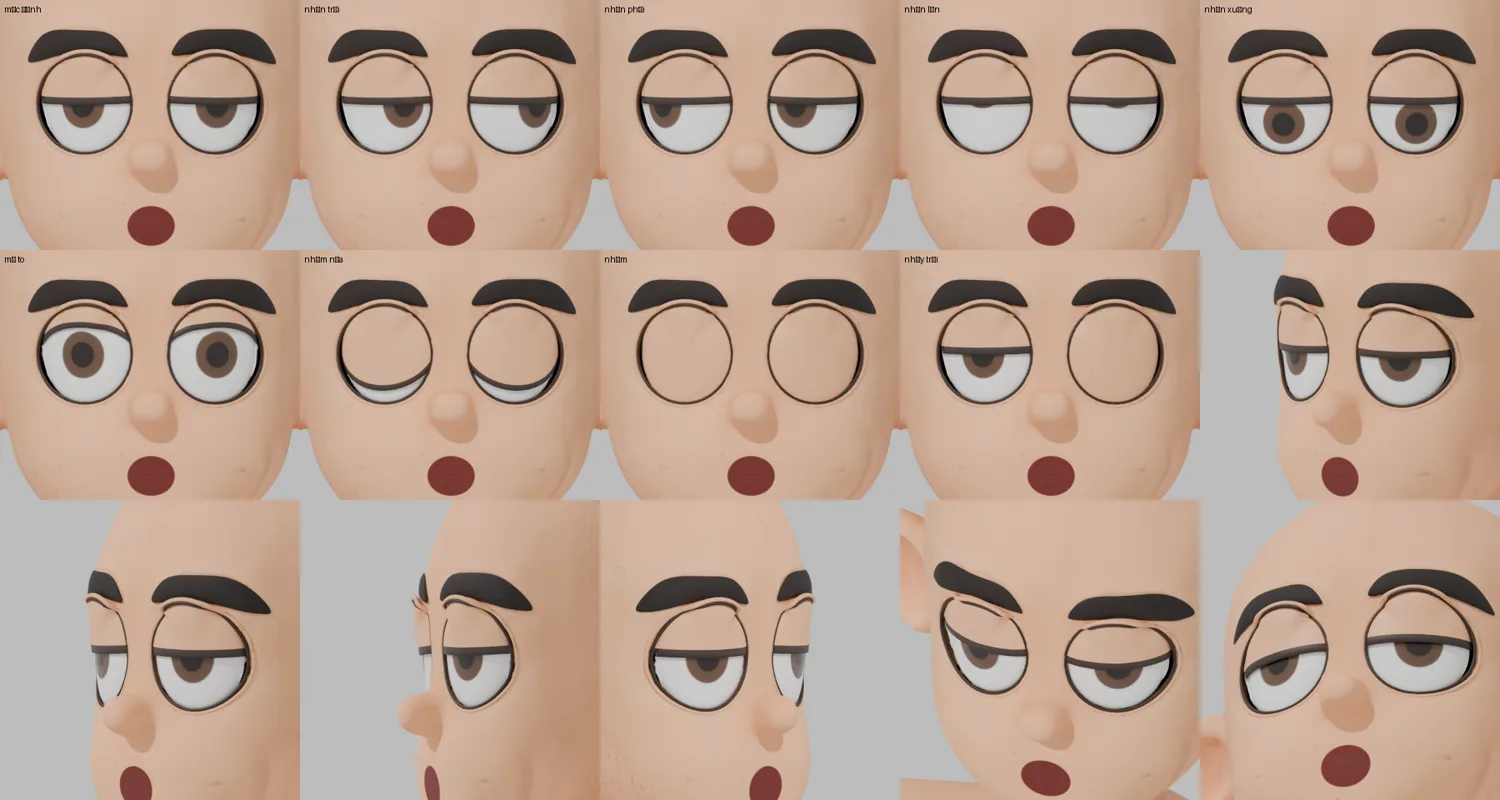
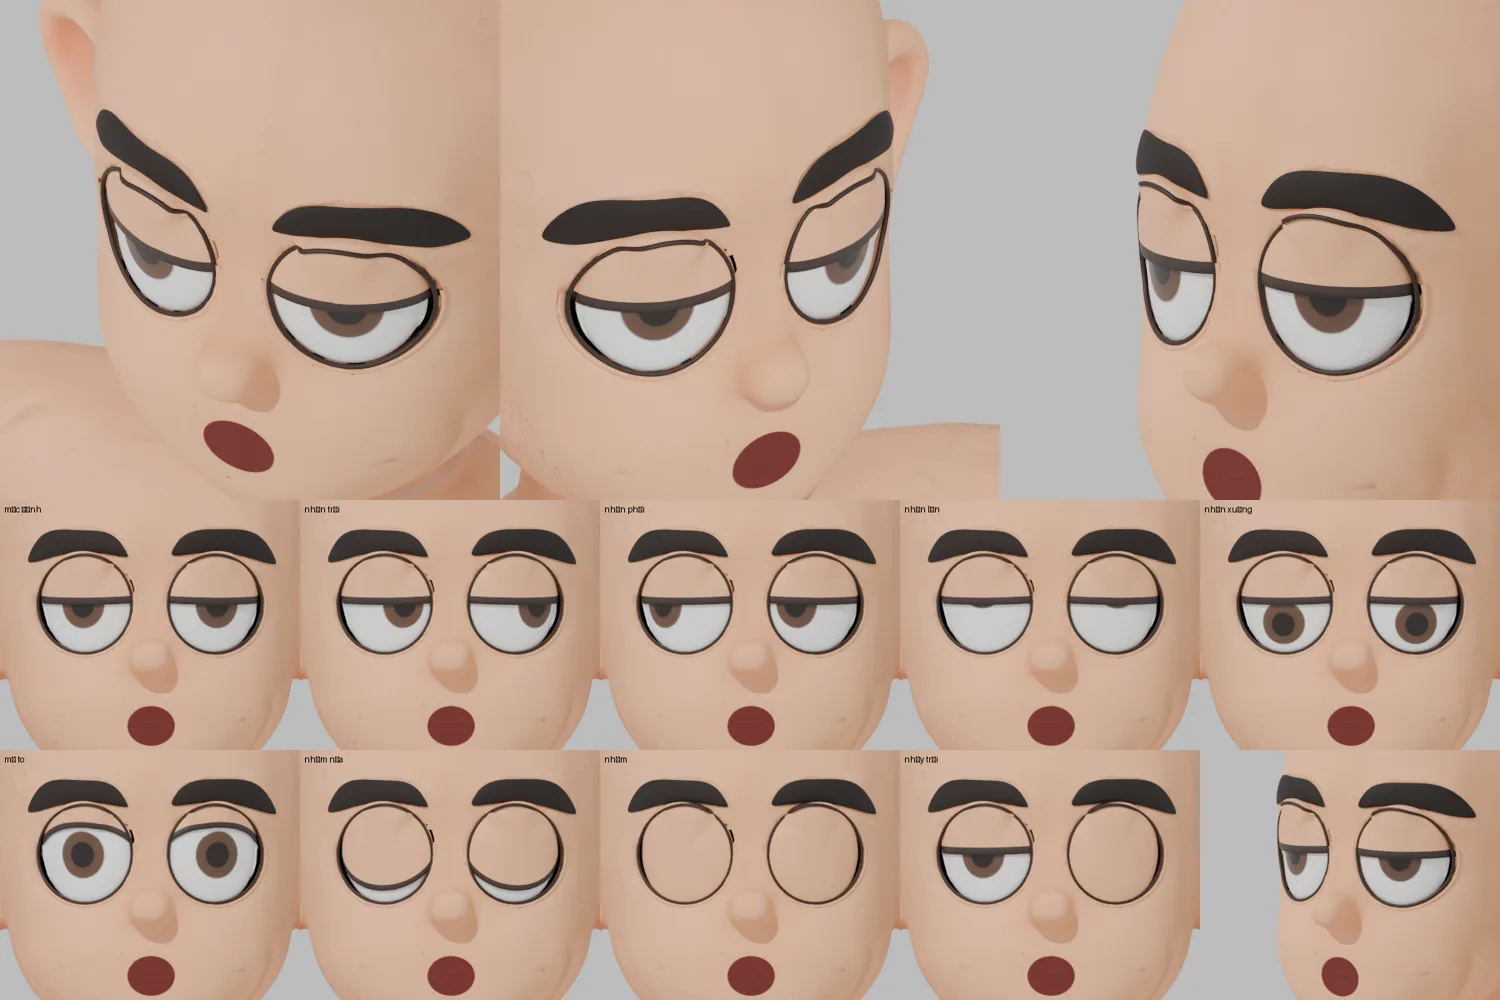
fix(nam-002): san phẳng gờ trên hốc mắt, vành da chỉ nửa dưới
Claude-Session: https://claude.ai/code/session_015xtvRfLqUD2K9LfPtx8x7k

diff --git a/assets/nhan-vat-3d/nam-002/mat_nam002.py b/assets/nhan-vat-3d/nam-002/mat_nam002.py
@@ -52,6 +52,14 @@ def lam_muot_may(body, it=90):
         for lam in (0.5, -0.53):
             acc = np.stack([np.bincount(a, co[b, j], n) + np.bincount(b, co[a, j], n) for j in range(3)], 1) / dg
             co[R] += (lam * w[R])[:, None] * (acc[R] - co[R])
+    # san phẳng gờ phía trên hốc mắt (đỉnh khối mắt cũ, giữa viền và lông mày)
+    for sx in (1, -1):
+        q = np.sqrt(((x - sx * EYE_X) / RX) ** 2 + ((z - EYE_Z) / RZ) ** 2)
+        wt = np.clip((1.55 - q) / 0.2, 0, 1) * np.clip((q - 0.85) / 0.1, 0, 1) * np.clip((z - EYE_Z) / 0.012, 0, 1) * (y < -0.03)
+        Rt = wt > 0
+        for _ in range(150):
+            acc = np.stack([np.bincount(a, co[b, j], n) + np.bincount(b, co[a, j], n) for j in range(3)], 1) / dg
+            co[Rt] += (0.5 * wt[Rt])[:, None] * (acc[Rt] - co[Rt])
     # san phẳng khối lông mày cũ (Laplace thường: co bớt chỗ lồi), chỉ trong dải lông mày
     wb = np.clip(np.minimum.reduce([(z - 1.552) / 0.006, (1.675 - z) / 0.008, (-0.04 - y) / 0.01, (0.118 - np.abs(x)) / 0.010, (np.abs(x) - 0.010) / 0.006]), 0, 1)
     Rb = wb > 0
@@ -193,10 +201,10 @@ def _vien_3d(sc, body, cx, k):
     ob = bpy.data.objects.new(f'Vien.{k}', cu); sc.collection.objects.link(ob)
     # vành da mỏng ngay ngoài nét viền: che mép cắt lởm chởm của lưới da
     a2, b2 = a_ + 0.0026, b_ + 0.0026; cu2 = bpy.data.curves.new(f'VanhDa.{k}', 'CURVE'); cu2.dimensions = '3D'; cu2.bevel_depth = 0.0017; cu2.bevel_resolution = 4; cu2.resolution_u = 6
-    sp2 = cu2.splines.new('NURBS'); sp2.points.add(63)
-    for p_, th in zip(sp2.points, np.linspace(0, 2 * np.pi, 64, endpoint=False)):
+    sp2 = cu2.splines.new('NURBS'); sp2.points.add(39)                 # chỉ nửa dưới (mép cắt lởm chởm ở dưới); phía trên bỏ để không tạo gờ
+    for p_, th in zip(sp2.points, np.linspace(np.pi * 0.95, np.pi * 2.05, 40)):
         xx = cx + a2 * math.cos(th); zz = EYE_Z + b2 * math.sin(th); p_.co = (xx, _surface_y(body, xx, zz) + 0.0009, zz, 1)
-    sp2.use_cyclic_u = True; sp2.order_u = 4
+    sp2.use_cyclic_u = False; sp2.use_endpoint_u = True; sp2.order_u = 4
     ob2 = bpy.data.objects.new(f'VanhDa.{k}', cu2); sc.collection.objects.link(ob2)
     cu2.materials.append(body.data.materials[0]); _VANH[k] = ob2
     m = bpy.data.materials.get('vien_mat') or _mat('vien_mat', (0.18, 0.11, 0.08), 0.6); cu.materials.append(m)

diff --git a/assets/nhan-vat-3d/nam-002/README.md b/assets/nhan-vat-3d/nam-002/README.md
@@ -109,3 +109,5 @@ Còn lại: mép lông mày còn viền nhạt, lởm chởm. Quanh hốc còn m
 - Lưới da quanh hai hốc (tới 1,7 lần bán kính hốc) được làm mượt bằng Taubin, và texture da vùng mắt–mày được làm mịn.
 
 **Khoét theo nếp hốc (15/11/2026):** lỗ khoét giờ theo nếp hốc mắt có sẵn trên lưới (chủ repo khoanh), không theo viền vẽ trên texture nữa. Elip mới có tâm z = 1,5268 m, bán trục 41,5 × 43,5 mm, tức rộng hơn viền vẽ 22% và trễ xuống dưới. Nhãn cầu (77 × 81 mm), mí và viền 3D đều theo elip này. Dải da lõm giữa viền vẽ và nếp, cùng các gai ở mép cắt, đã hết.
+
+**Gờ trên hốc mắt (15/11/2026):** gờ nổi giữa đỉnh viền mắt và lông mày (đỉnh khối mắt cũ trên lưới) đã được san phẳng bằng 150 vòng Laplace, chỉ ở nửa trên quanh hốc. Vành da `VanhDa` giờ chỉ chạy ở nửa dưới, chỗ cần che mép cắt, nên không còn tạo gờ phía trên. Còn lại: hai đầu vành da ở hai bên mắt có chấm nhỏ khi nhìn gần.
